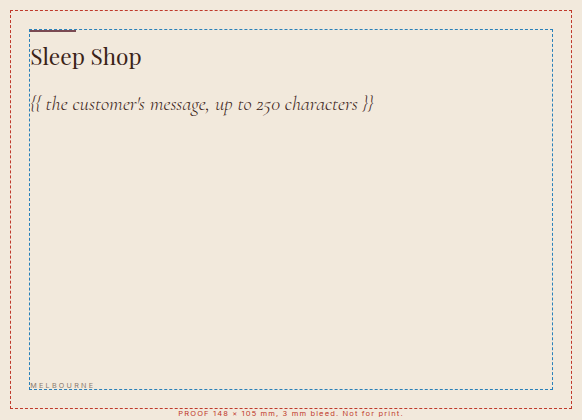
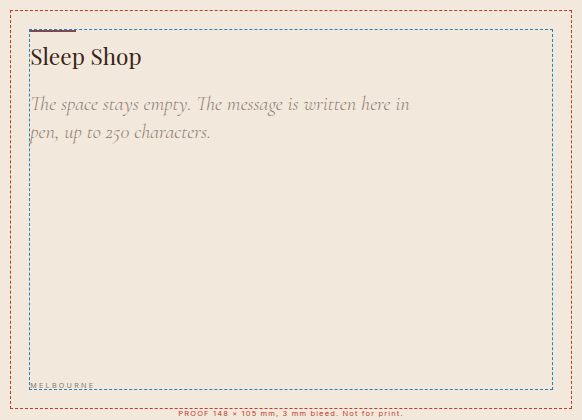
The message is written by hand, everywhere, at 250 characters
The founder's call: HAND. The site and the theme had drifted into
saying both, so this sweeps every customer-facing mention to one story:
the message is written on the card in pen, before the lid goes on. The
trust item becomes "Handwritten card", the FAQ, Birthdays, shipping,
homepage and box templates all say written by hand, and the gift card
in the print pack becomes a true blank - its "the pen goes here" note
now renders only on proofs, never on the PDF a printer receives.

The character limit aligns to the 250 from the original brief. The
static site had invented 220; data, store fallback and the three pages
that quoted it now all say 250.

All four suites pass: site 35, theme 31, social 12, print 5.

Claude-Session: https://claude.ai/code/session_01RuJY1GzS97PDPUnKjq2Csy

Changed region(s): [[0.0309, 0.2167, 0.7113, 0.2786], [0.0309, 0.3095, 0.3711, 0.3405]]

diff --git a/sleep-shop/assets/js/data.js b/sleep-shop/assets/js/data.js
@@ -16,7 +16,7 @@
     locale: 'en-AU',
     /* Standard delivery is free on everything; express is the only paid option. */
     expressFee: 12,
-    giftMessageLimit: 220,
+    giftMessageLimit: 250,
     promoCodes: { FIRSTRUN: 0.1 },
     email: 'hello@sleepshop.example',
     phone: '(03) 9000 0000',
@@ -102,7 +102,7 @@
     /* In the box but not on the shelf. */
     always: [
       { name: 'The ritual card', note: 'A short evening ritual, letterpressed. The same one is in every box, and it is the first thing under the lid.' },
-      { name: 'Your message', note: 'Up to 220 characters, written by hand on a card that sits on top of the tissue.' }
+      { name: 'Your message', note: 'Up to 250 characters, written by hand on a card that sits on top of the tissue.' }
     ],
     /* Ribbon is the only choice to make, and it costs nothing either way. */
     ribbons: [
@@ -134,7 +134,7 @@
 
   var STEPS = [
     { title: 'Choose the box and a ribbon', body: 'Clay rose or powder blue. There is one box, so this is the only decision.' },
-    { title: 'Write your message', body: 'Up to 220 characters at checkout. We write it on the card by hand.' },
+    { title: 'Write your message', body: 'Up to 250 characters at checkout. We write it on the card by hand.' },
     { title: 'We pack it and tie it', body: 'By hand in Melbourne, usually the same working day.' },
     { title: 'It arrives ready to give', body: 'No invoice in the box, no pricing on the outside. Send it straight to them.' }
   ];

diff --git a/sleep-shop/inside.html b/sleep-shop/inside.html
@@ -62,7 +62,7 @@
       <div class="prose">
         <p class="eyebrow">06 / In your hand, then ours</p>
         <h2 class="mt-0" style="color:var(--ink)">Your message</h2>
-        <p>Up to 220 characters, typed at checkout and written onto a card by hand before the lid
+        <p>Up to 250 characters, typed at checkout and written onto a card by hand before the lid
           goes on. It is the only paper in the box apart from the ritual card. No invoice, no
           receipt, no pricing anywhere on the parcel.</p>
       </div>

diff --git a/sleep-shop/index.html b/sleep-shop/index.html
@@ -130,7 +130,7 @@
       <div class="grid grid--3">
         <div class="card">
           <h3>A message, written by hand</h3>
-          <p class="muted small">Up to 220 characters on a letterpress card, written as you typed
+          <p class="muted small">Up to 250 characters on a letterpress card, written as you typed
             it and placed on top of the tissue. It is the first thing they see.</p>
         </div>
         <div class="card">

diff --git a/sleep-shop/gifting.html b/sleep-shop/gifting.html
@@ -71,7 +71,7 @@
       </div>
       <div class="grid grid--3">
         <div class="card">
-          <h3>Up to 220 characters</h3>
+          <h3>Up to 250 characters</h3>
           <p class="muted small">Roughly three lines on a letterpress card. Longer than that and the
             handwriting stops being legible, which defeats the point.</p>
         </div>

diff --git a/sleep-shop/assets/js/store.js b/sleep-shop/assets/js/store.js
@@ -32,7 +32,7 @@
 
   /* Messages are written by hand onto a small card, so the limit is physical. */
   function tidyMessage(text) {
-    var limit = config.giftMessageLimit || 220;
+    var limit = config.giftMessageLimit || 250;
     return String(text == null ? '' : text).replace(/\s+/g, ' ').trim().slice(0, limit);
   }
 

diff --git a/shopify-theme/assets/gift-message.js b/shopify-theme/assets/gift-message.js
@@ -1,4 +1,4 @@
-/* Live character counter for the printed gift card message.
+/* Live character counter for the handwritten gift card message.
    The limit is a physical one: the card is printed, so going over is not a
    soft warning. maxlength does the enforcing, this only reports. */
 (function () {

diff --git a/print/README.md b/print/README.md
@@ -7,7 +7,7 @@ in. Run `npm run fonts` in `shopify-theme` first on a fresh checkout.
 
 | Piece | Size | Printed |
 | --- | --- | --- |
-| Gift card | 148 x 105 mm | Blanks in bulk, the message overprinted per order |
+| Gift card | 148 x 105 mm | Blanks in bulk, the message written on in pen per order |
 | Ritual card | 105 x 148 mm | One design, in bulk. The first thing under the lid. |
 | Care card | 90 x 55 mm | One design, in bulk |
 
